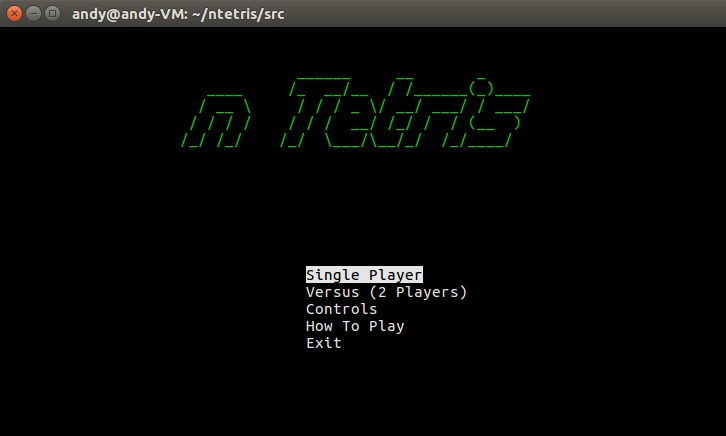
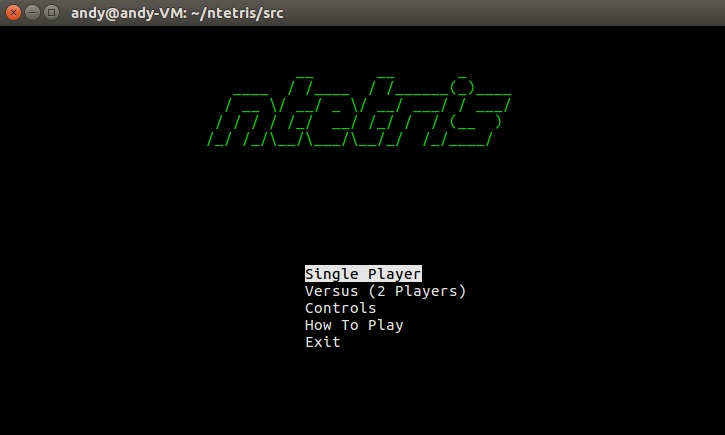
small gui changes, updated ss

Changed region(s): [[0.2428, 0.1494, 0.7283, 0.3586], [0.4248, 0.5977, 0.6676, 0.8069], [0.0, 0.0, 0.3945, 0.0598]]

diff --git a/src/ntetris_threads.c b/src/ntetris_threads.c
@@ -353,6 +353,16 @@ void *play_ntetris_versus (void *unused)
 	mvwprintw(stdscr, HOLD_INIT_Y_P2 + 10, HOLD_INIT_X_P2, "Player 2");
 	mvwprintw(stdscr, HOLD_INIT_Y_P1 + 10, HOLD_INIT_X_P1, "Player 1"); 
 
+	mvwprintw(stdscr, 1, 36, "Press Q");
+	mvwprintw(stdscr, 2, 36, "to quit");
+	mvwaddch(stdscr, 10, 40, 'N' | A_BOLD | COLOR_PAIR(I_COLOR_PAIR));
+	mvwaddch(stdscr, 11, 40,'T' | A_BOLD | COLOR_PAIR(J_COLOR_PAIR));
+	mvwaddch(stdscr, 12, 40,'E' | A_BOLD | COLOR_PAIR(L_COLOR_PAIR));
+	mvwaddch(stdscr, 13, 40,'T' | A_BOLD | COLOR_PAIR(O_COLOR_PAIR));
+	mvwaddch(stdscr, 14, 40,'R' | A_BOLD | COLOR_PAIR(S_COLOR_PAIR));
+	mvwaddch(stdscr, 15, 40,'I' | A_BOLD | COLOR_PAIR(T_COLOR_PAIR));
+	mvwaddch(stdscr, 16, 40,'S' | A_BOLD | COLOR_PAIR(Z_COLOR_PAIR));
+	
 	wattron(garbage_win_p1, A_BOLD);
 	wattron(garbage_win_p2, A_BOLD);
 	mvwprintw(garbage_win_p1, 0, 0, "Incoming");

diff --git a/src/ntetris_main.c b/src/ntetris_main.c
@@ -19,11 +19,11 @@ int GARBAGE_COUNTER_2 = 0;
 int WHICH_PLAYER_WON = 0;
 
 char *title[] = {
-				"             ______     __       _     ",
-				"   ____     /_  __/__  / /______(_)____",
-				"  / __ \\     / / / _ \\/ __/ ___/ / ___/",
-				" / / / /    / / /  __/ /_/ /  / (__  ) ",
-				"/_/ /_/    /_/  \\___/\\__/_/  /_/____/  "
+				"          __       __       _     ",
+				"   ____  / /____  / /______(_)____",
+				"  / __ \\/ __/ _ \\/ __/ ___/ / ___/",
+				" / / / / /_/  __/ /_/ /  / (__  ) ",
+				"/_/ /_/\\__/\\___/\\__/_/  /_/____/  "
 				};
 
 int main(int argc, char **argv)
